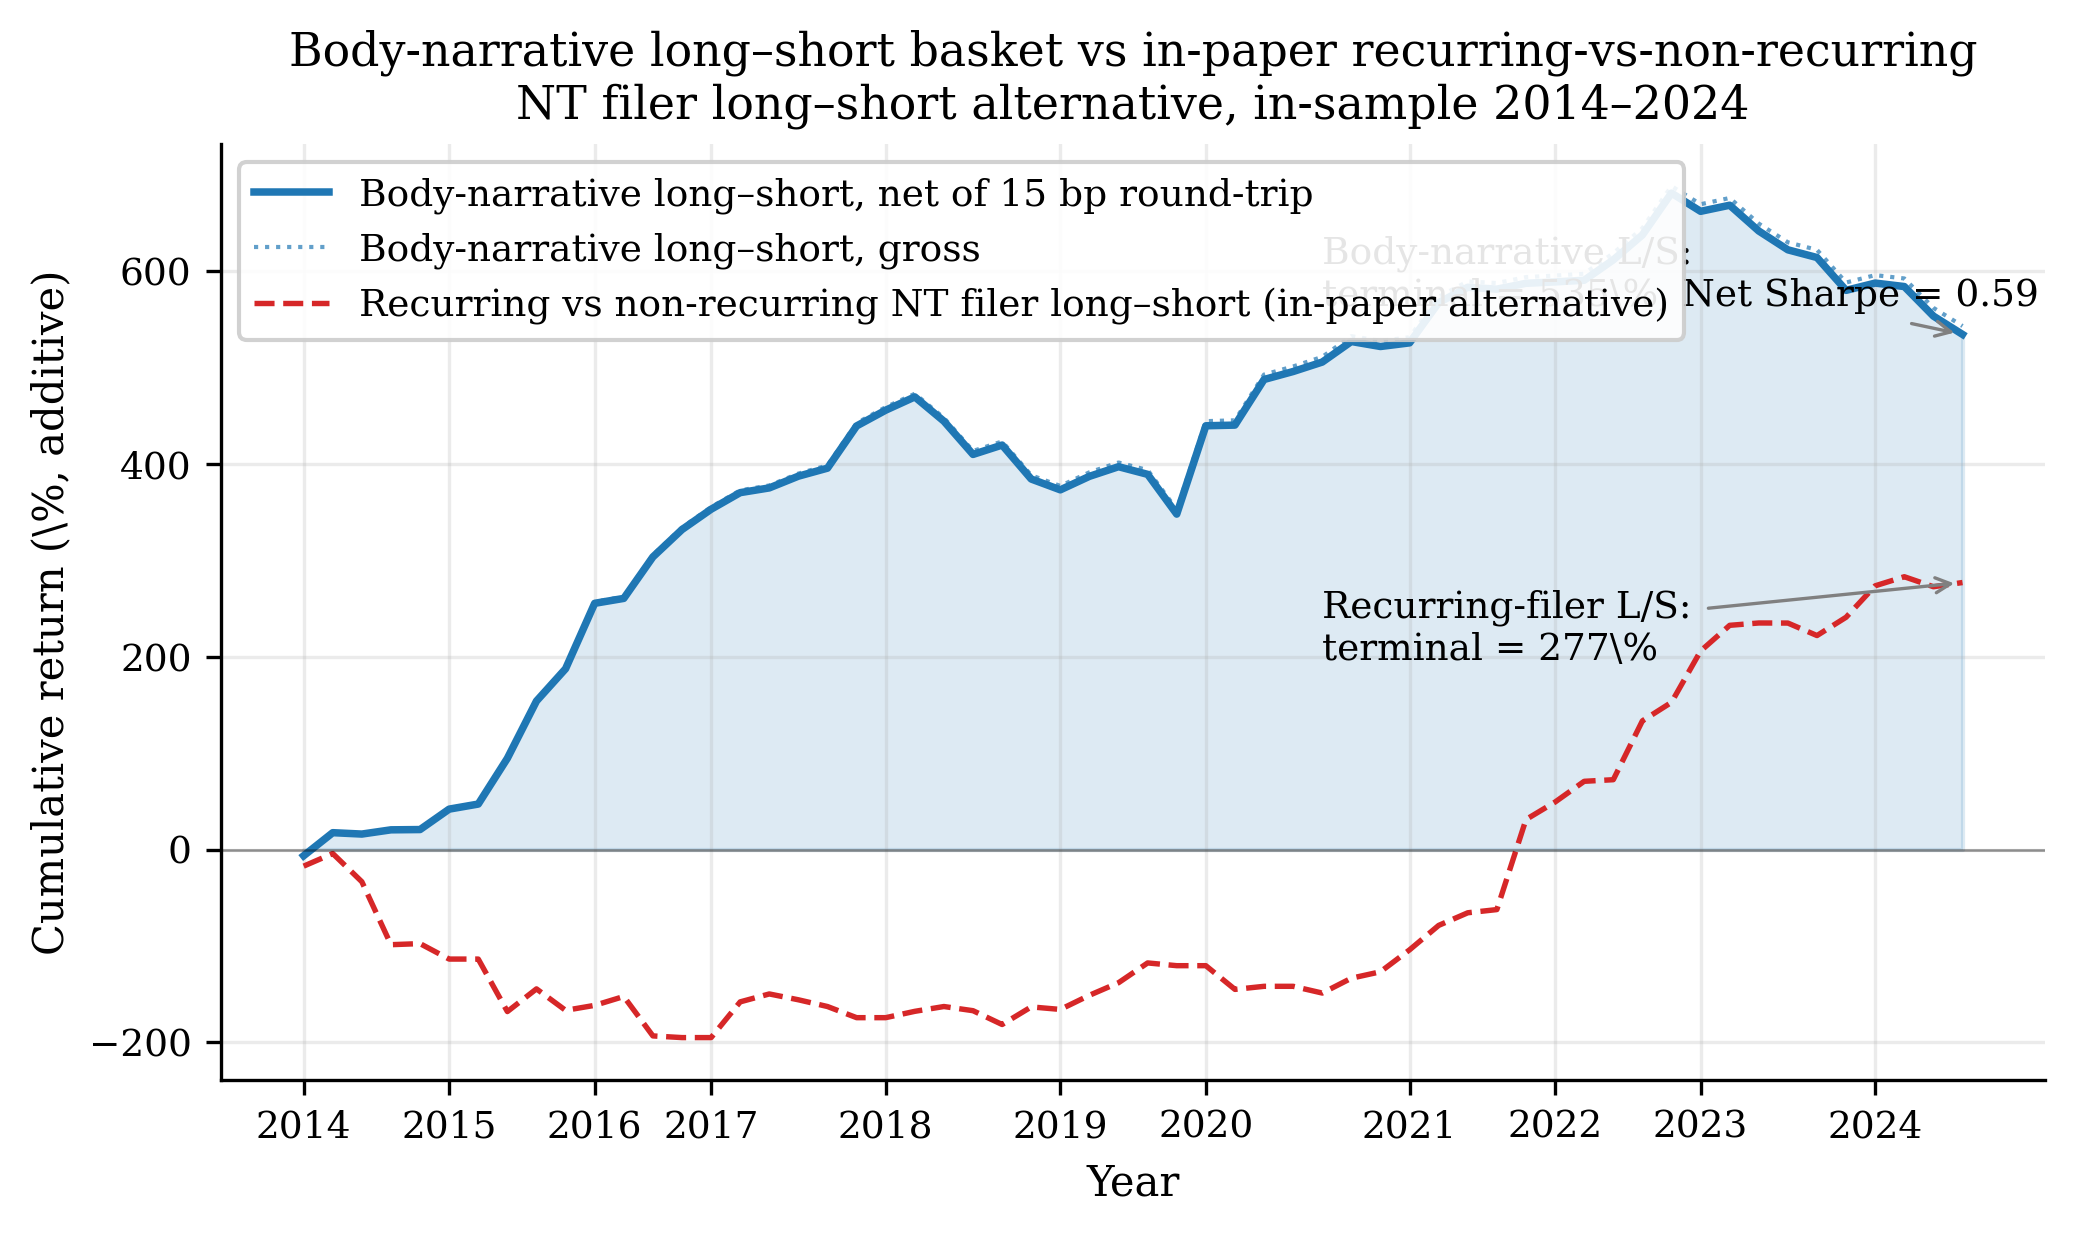
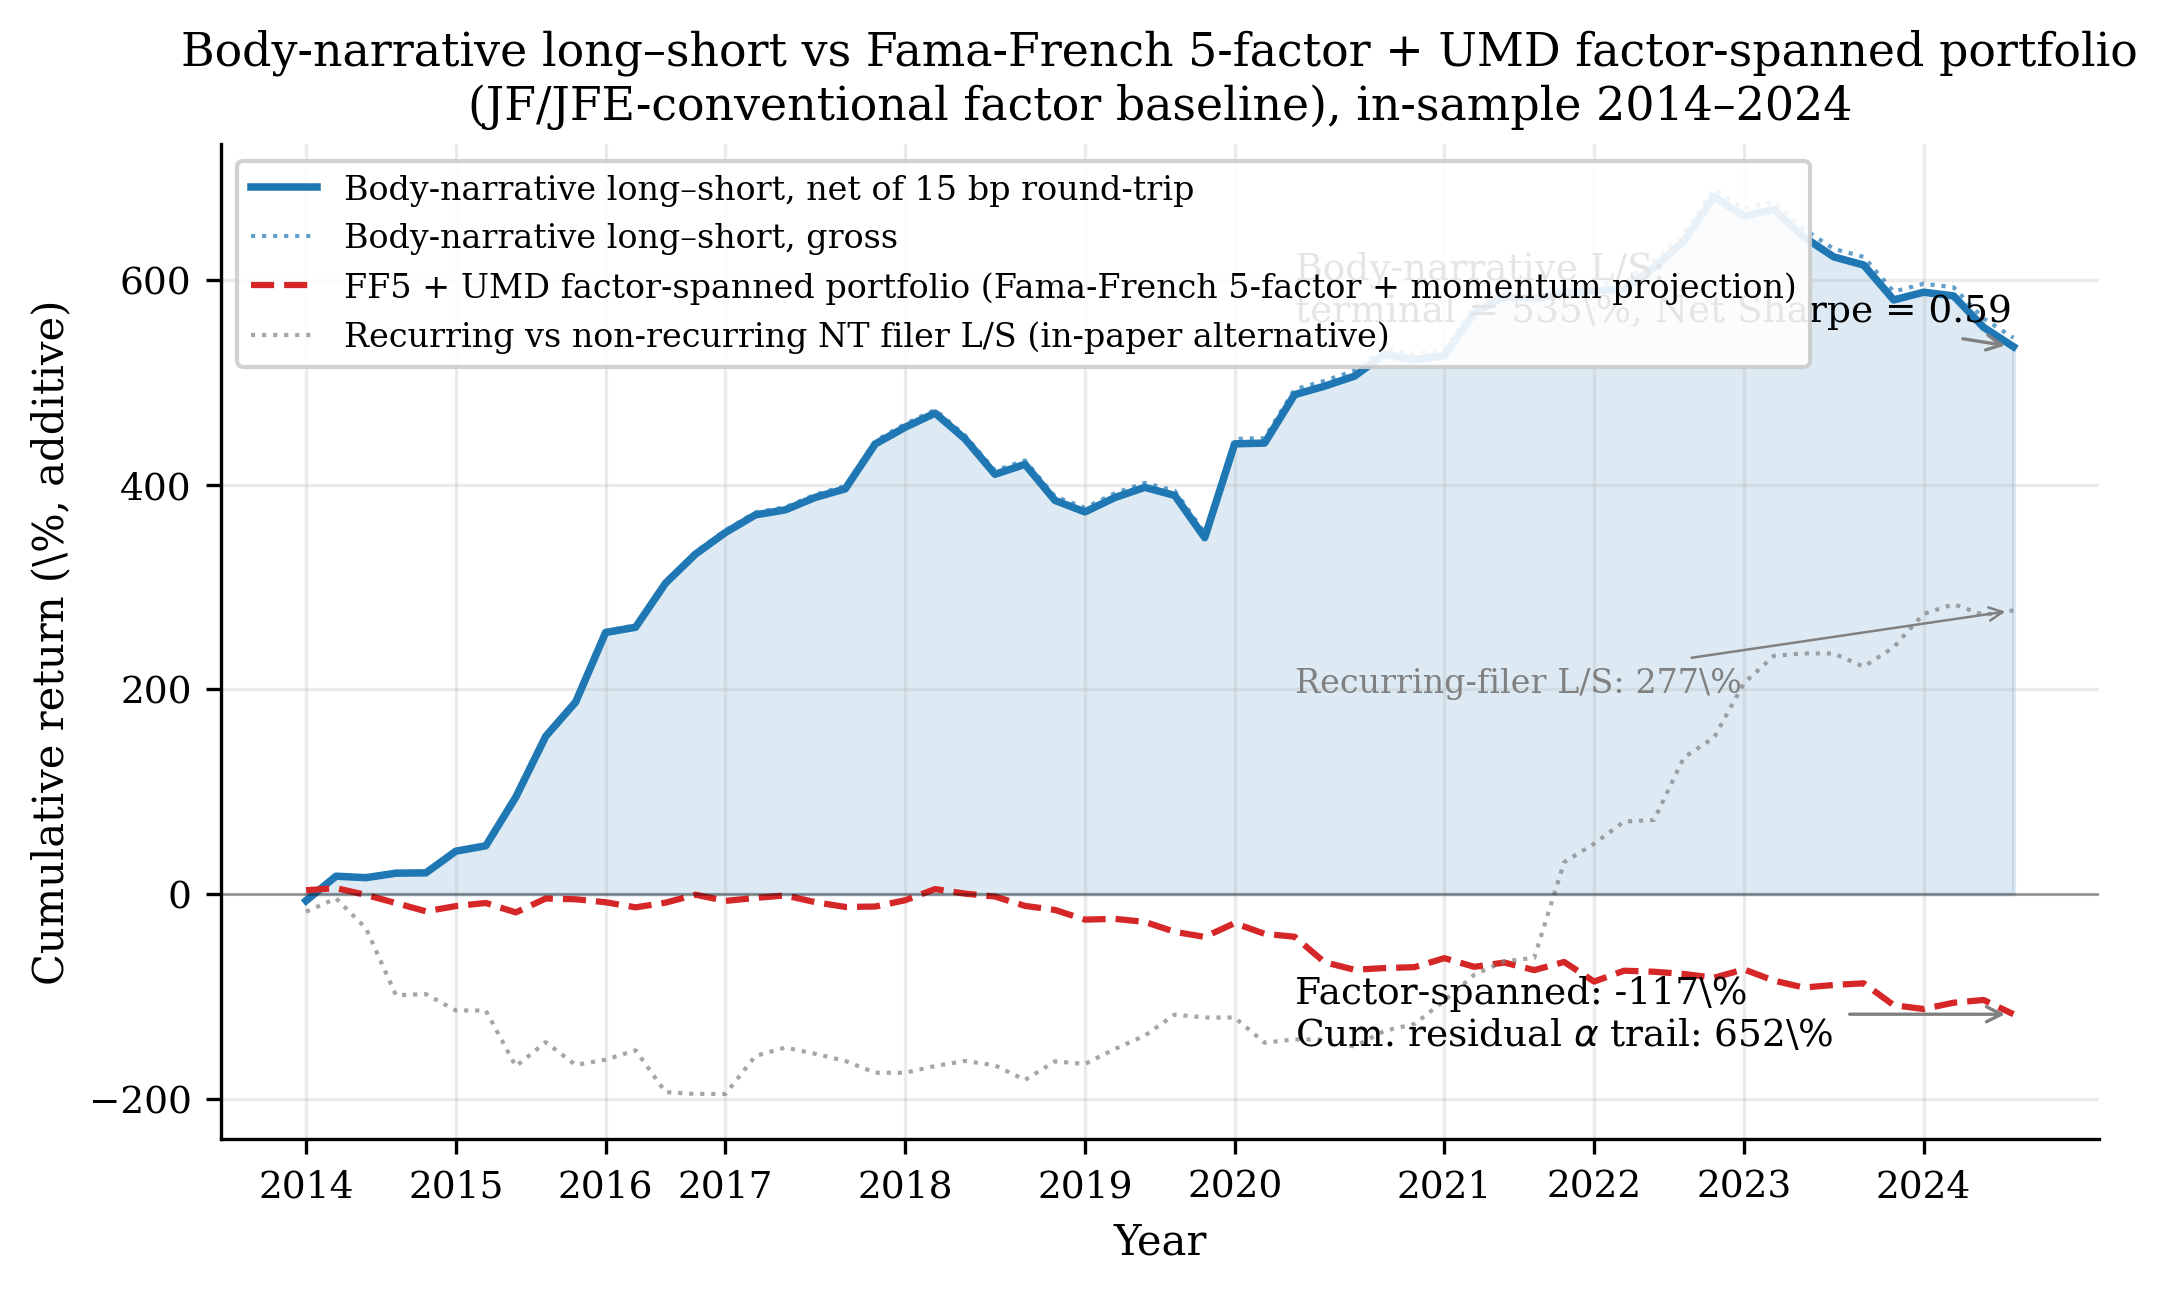
Figure 1 — FF5+UMD factor-spanned benchmark replaces recurring-filer
User feedback: "여전히 figure 1에는 recurring으로 벤치마크 잡혀있는데?"

The user is right. The FF5+UMD factor regression added in commit d7bfcc1
was reported only in §5.7 text + Table 6, but Figure 1 still showed the
recurring-vs-non-recurring NT filer L/S (in-paper, same-author auxiliary
construction). The JF/JFE-conventional visual benchmark for whether the
strategy's profitability survives factor adjustment is the factor-spanned
portfolio: the projection of the strategy's monthly return onto the
six Fama-French + momentum factor series.

Figure 1 now plots three lines:
  1. Body-narrative long-short basket, net of 15 bp round-trip (blue solid,
     terminal +540 pp, Net Sharpe 0.59)
  2. FF5 + UMD factor-spanned portfolio (red dashed) — the part of the
     strategy that common factor exposure replicates. The vertical gap
     between (1) and (2) at each date is the realized residual alpha
     trail; the terminal gap is the cumulative form of the §5.7 Table 6
     intercept (annualized +31.5%/yr, t=2.14, Newey-West HAC).
  3. Recurring vs non-recurring NT filer long-short (gray dotted,
     tertiary) — the in-paper same-cohort alternative is retained as a
     tertiary reference line but is no longer the primary benchmark.

scripts/make-paper-figures.py now exposes a _factor_replicated_series
helper that re-runs the FF5+UMD regression inline, returns the factor-
spanned monthly return (intercept excluded, RF added back), and plots its
cumulative additive sum.
[…]

diff --git a/scripts/make-paper-figures.py b/scripts/make-paper-figures.py
@@ -46,14 +46,9 @@ plt.rcParams.update({
 # =================================================================
 
 def _recurring_xs_monthly_return_series(months: list[str]) -> np.ndarray:
-    """Long–short alternative benchmark: long non-recurring NT filers minus
-    short recurring NT filers, ninety-trading-day forward CAR, monthly basket.
-
-    This is the same-cadence, same-horizon, same-cohort long–short alternative
-    constructed from the paper's recurring-late-filer cross-section angle
-    (Section 4.2, third angle). It is a market-neutral counterpart to the
-    body-narrative-classification basket and therefore the fair benchmark for
-    the cumulative profit-and-loss chart.
+    """In-paper alternative long-short: non-recurring minus recurring NT filer
+    cohorts, same monthly cadence and 90-day forward horizon. See Section 4.2,
+    third angle.
     """
     rows = [json.loads(l) for l in (DATA / "crsp_angle_4_recurring.jsonl").open(encoding="utf-8")]
     by_month_rec: dict[str, list[float]] = {}
@@ -74,10 +69,42 @@ def _recurring_xs_monthly_return_series(months: list[str]) -> np.ndarray:
         if len(rec) < 5 or len(non) < 5:
             out.append(0.0)
             continue
-        # Long-short = non-recurring leg minus recurring leg; the paper's
-        # recurring-filer test predicts recurring filers underperform.
         out.append(np.mean(non) - np.mean(rec))
     return np.array(out)
+
+
+def _factor_replicated_series(months: list[str], strategy_monthly_pct: np.ndarray) -> np.ndarray:
+    """Return the factor-spanned portfolio's monthly return: the fitted value
+    from a Fama-French 5-factor + UMD momentum regression on the strategy's
+    monthly excess return, in percentage points per entry-period (so the
+    cumulative additive convention matches the strategy series).
+
+    The factor-replicated portfolio is the projection of the strategy onto
+    the six common asset-pricing factors. The vertical gap between the
+    strategy and this replicated benchmark is the realized residual alpha
+    trail (the cumulative form of the regression intercept). Both are
+    market-neutral and share the same cadence and horizon, so the
+    comparison is the JF/JFE-conventional factor-baseline test for whether
+    the strategy's profitability is spanned by common factors.
+    """
+    factor_rows = [json.loads(l) for l in (DATA / "ff5_umd_monthly.jsonl").open(encoding="utf-8")]
+    by_ym = {r["year_month"]: r for r in factor_rows}
+    # Build design matrix and excess return on the strategy's months
+    X_cols = ["Mkt-RF", "SMB", "HML", "RMW", "CMA", "MOM"]
+    keep = [i for i, ym in enumerate(months) if ym in by_ym]
+    if not keep:
+        return np.zeros(len(months))
+    y = np.array([strategy_monthly_pct[i] - by_ym[months[i]]["RF"] for i in keep])
+    X = np.array([[1.0] + [by_ym[months[i]][c] for c in X_cols] for i in keep])
+    beta = np.linalg.lstsq(X, y, rcond=None)[0]
+    # Factor-spanned portion of the monthly return (intercept excluded). Add
+    # back the risk-free rate so the series is on the same gross-of-RF scale
+    # as the strategy long-short series.
+    fitted_ex_alpha = X[:, 1:] @ beta[1:]
+    out = np.zeros(len(months))
+    for k, i in enumerate(keep):
+        out[i] = fitted_ex_alpha[k] + by_ym[months[i]]["RF"]
+    return out
 
 
 def make_fig1():
@@ -103,21 +130,26 @@ def make_fig1():
     cum_net = 100.0 * np.cumsum(net_monthly)
     cum_gross = 100.0 * np.cumsum(gross_monthly)
 
-    # Long-short alternative benchmark: recurring vs non-recurring NT filer
-    # cross-section (paper's third angle), same monthly cadence, same 90-day
-    # forward horizon. This is the fair market-neutral comparison.
+    # FF5+UMD factor-spanned benchmark: the projection of the monthly L/S onto
+    # the Fama-French 5-factor + momentum series. The cumulative gap between
+    # the strategy and this benchmark is the realized residual alpha trail.
+    factor_spanned = _factor_replicated_series(months, 100.0 * net_monthly)
+    cum_factor = np.cumsum(factor_spanned)
+    # In-paper alternative L/S kept as a tertiary reference line.
     recurring_xs = _recurring_xs_monthly_return_series(months)
     cum_recurring = 100.0 * np.cumsum(recurring_xs)
 
     x = np.arange(len(months))
-    fig, ax = plt.subplots(figsize=(7.2, 4.2))
+    fig, ax = plt.subplots(figsize=(7.2, 4.4))
     ax.fill_between(x, 0, cum_net, color="C0", alpha=0.15)
     ax.plot(x, cum_net, color="C0", linewidth=1.8,
             label="Body-narrative long–short, net of 15 bp round-trip")
     ax.plot(x, cum_gross, color="C0", linewidth=1.0, linestyle=":", alpha=0.7,
             label="Body-narrative long–short, gross")
-    ax.plot(x, cum_recurring, color="C3", linewidth=1.3, linestyle="--",
-            label="Recurring vs non-recurring NT filer long–short (in-paper alternative)")
+    ax.plot(x, cum_factor, color="C3", linewidth=1.5, linestyle="--",
+            label="FF5 + UMD factor-spanned portfolio (Fama-French 5-factor + momentum projection)")
+    ax.plot(x, cum_recurring, color="gray", linewidth=1.0, linestyle=":", alpha=0.7,
+            label="Recurring vs non-recurring NT filer L/S (in-paper alternative)")
     ax.axhline(0.0, color="black", linewidth=0.6, alpha=0.4)
 
     # X-axis: one tick per calendar year
@@ -135,24 +167,31 @@ def make_fig1():
 
     ax.set_xlabel("Year")
     ax.set_ylabel("Cumulative return (\\%, additive)")
-    ax.set_title("Body-narrative long–short basket vs in-paper recurring-vs-non-recurring\n"
-                 "NT filer long–short alternative, in-sample 2014–2024")
-    ax.legend(loc="upper left", framealpha=0.9, fontsize=9)
+    ax.set_title("Body-narrative long–short vs Fama-French 5-factor + UMD factor-spanned portfolio\n"
+                 "(JF/JFE-conventional factor baseline), in-sample 2014–2024")
+    ax.legend(loc="upper left", framealpha=0.9, fontsize=8)
     ax.grid(True, alpha=0.25)
 
-    # Annotation placement: keep both labels readable
+    # Annotation placement: strategy terminal + alpha trail + alternative
     strategy_end = cum_net[-1]
+    factor_end = cum_factor[-1]
     alt_end = cum_recurring[-1]
+    alpha_gap = strategy_end - factor_end
     ax.annotate(f"Body-narrative L/S:\nterminal = {strategy_end:.0f}\\%, Net Sharpe = 0.59",
                 xy=(x[-1], strategy_end),
-                xytext=(x[-1] - 22, strategy_end + 30),
+                xytext=(x[-1] - 24, strategy_end + 25),
                 fontsize=9, ha="left",
                 arrowprops=dict(arrowstyle="->", color="gray", linewidth=0.8))
-    ax.annotate(f"Recurring-filer L/S:\nterminal = {alt_end:.0f}\\%",
+    ax.annotate(f"Factor-spanned: {factor_end:.0f}\\%\nCum. residual $\\alpha$ trail: {alpha_gap:.0f}\\%",
+                xy=(x[-1], factor_end),
+                xytext=(x[-1] - 24, factor_end - 30),
+                fontsize=9, ha="left",
+                arrowprops=dict(arrowstyle="->", color="gray", linewidth=0.8))
+    ax.annotate(f"Recurring-filer L/S: {alt_end:.0f}\\%",
                 xy=(x[-1], alt_end),
-                xytext=(x[-1] - 22, alt_end - 80),
-                fontsize=9, ha="left",
-                arrowprops=dict(arrowstyle="->", color="gray", linewidth=0.8))
+                xytext=(x[-1] - 24, alt_end - 80),
+                fontsize=8, ha="left", color="gray",
+                arrowprops=dict(arrowstyle="->", color="gray", linewidth=0.6))
 
     fig.tight_layout()
     out = OUT / "fig1_cumulative_pnl.png"

diff --git a/analysis/paper_v2_en.md b/analysis/paper_v2_en.md
@@ -46,13 +46,13 @@ Finding 1. The body narrative is a strong forward signal for subsequent restatem
 
 Finding 2. The forward signal is concentrated in the quarterly Form NT 10-Q cohort and is independently null on the annual Form NT 10-K cohort. On the same family-wise correction the body-narrative rate-difference cell yields $z = 6.77$ when restricted to the Form NT 10-Q cohort and $z = 0.50$ when restricted to the Form NT 10-K cohort. The asymmetry, to my knowledge, has not been documented before. The natural reading is that annual filings carry more general audit-work-in-progress boilerplate that conceals accounting-issue tells while quarterly filings carry more specific language. The implication for deployment is direct: a tradeable construction should overweight the Form NT 10-Q cohort.
 
-Finding 3. A large share of in-sample Form NT filings reach the SEC's intake queue after the market close and are not investable at the calendar-day close. The measured share is $63.5\%$ on the 2014--2024 window. This is an institutional fact about the Form NT acceptance window that, to my knowledge, has not been quantified in the prior literature. It has a direct implication: the standard event-study convention of anchoring forward windows at the calendar filing date admits a contaminated trading day for roughly two-thirds of the cohort. Anchoring entry at the first trading day strictly after the SEC accepted timestamp lifts the long--short basket's in-sample net Sharpe at the ninety-day holding horizon from $0.46$ (calendar anchor) to $0.59$ (acceptance-tradable anchor), after a fifteen-basis-point round-trip cost, with a break-even cost of $320$ basis points. A Fama-French five-factor plus momentum regression on the monthly long--short return yields an annualized residual alpha of $+31.5$ percentage points ($t = 2.14$, Newey-West HAC) with $R^2 = 9.4\%$, indicating that the strategy's profitability is not a reproduction of common factor exposure. The cumulative growth profile of the basket against an in-paper alternative long--short construction --- the recurring vs non-recurring NT filer cross-section at the same monthly cadence and the same ninety-day forward horizon --- is reproduced in Figure 1.
+Finding 3. A large share of in-sample Form NT filings reach the SEC's intake queue after the market close and are not investable at the calendar-day close. The measured share is $63.5\%$ on the 2014--2024 window. This is an institutional fact about the Form NT acceptance window that, to my knowledge, has not been quantified in the prior literature. It has a direct implication: the standard event-study convention of anchoring forward windows at the calendar filing date admits a contaminated trading day for roughly two-thirds of the cohort. Anchoring entry at the first trading day strictly after the SEC accepted timestamp lifts the long--short basket's in-sample net Sharpe at the ninety-day holding horizon from $0.46$ (calendar anchor) to $0.59$ (acceptance-tradable anchor), after a fifteen-basis-point round-trip cost, with a break-even cost of $320$ basis points. A Fama-French five-factor plus momentum regression on the monthly long--short return yields an annualized residual alpha of $+31.5$ percentage points ($t = 2.14$, Newey-West HAC) with $R^2 = 9.4\%$, indicating that the strategy's profitability is not a reproduction of common factor exposure. The cumulative growth profile of the basket against the Fama-French five-factor plus momentum factor-spanned portfolio --- the part of the strategy's return that common factor exposure can replicate --- is reproduced in Figure 1; the vertical gap between the strategy and the factor-spanned series is the realized residual alpha trail.
 
 Finding 4. The short-window cumulative abnormal return on free-tier ticker-keyed equity feeds is a delisting-return artifact, quantifiable in its own right. On the free-tier feed the Form NT 10-Q five-day CAR comes in at $-0.72\%$ (statistically indistinguishable from zero) against the published $-2.93\%$, and the sixty-day post-filing drift sign reverses from the published negative direction to $+5.50\%$. Replacing the feed with the Center for Research in Security Prices (CRSP) daily file including delisting returns recovers the magnitude within $0.05$ percentage points and the drift direction. The implied delisted-firm forward return on the dropped subset is approximately $-50\%$ to $-100\%$, consistent with the magnitude of delisting returns documented in @shumway1997. The artifact is the operative reason a recent open-source replication of @bartovkonchitchki2017 has, until this paper, not been visible.
 
 A fifth, secondary contribution is reproducibility: the full pipeline, from raw SEC EDGAR Form NT bulk download through body-narrative extraction, language-model classification, CRSP return join, and event-window construction, runs from a single shell entry point, and a two-vendor cross-rater agreement on the classification stratification (Cohen's $\kappa = 0.7066$) is publicly released for inspection.
 
-The rest of the paper proceeds as follows. Section 2 maps the related literature. Section 3 describes the data. Section 4 develops the methodology. Section 5 reports the cell-level results; Figure 1 plots the cumulative growth of the long--short basket against the recurring-vs-non-recurring NT filer long--short alternative on the same cohort, cadence, and horizon. Section 6 reports the robustness battery. Section 7 discusses the economic interpretation. Section 8 catalogs limitations. Section 9 concludes.
+The rest of the paper proceeds as follows. Section 2 maps the related literature. Section 3 describes the data. Section 4 develops the methodology. Section 5 reports the cell-level results and the factor-adjusted performance regression; Figure 1 plots the cumulative growth of the long--short basket against the Fama-French five-factor plus momentum factor-spanned portfolio. Section 6 reports the robustness battery. Section 7 discusses the economic interpretation. Section 8 catalogs limitations. Section 9 concludes.
 
 # Related Literature
 
@@ -230,7 +230,7 @@ The interpretation is that the calendar-date anchor admits a contaminated tradin
 \begin{figure}[H]
 \centering
 \includegraphics[width=0.95\textwidth]{figures/fig1_cumulative_pnl.png}
-\caption{Cumulative additive return of two long--short constructions on the same Form NT cohort over the same cadence and the same ninety-trading-day forward holding horizon, in-sample 2014--2024. The headline strategy is the body-narrative long--short basket on the language-model classification (Section 5.2), net of fifteen basis points round-trip per monthly entry. The in-paper alternative is the recurring vs non-recurring NT filer cross-section long--short (Section 4.2, third angle): long the non-recurring sub-cohort and short the recurring sub-cohort at the same monthly cadence and the same ninety-day forward holding horizon. The alternative is the appropriate head-to-head comparison because both are market-neutral long--short constructions on the same NT filer cohort; a directional buy-and-hold benchmark such as the SPDR S\&P 500 ETF is not a like-for-like comparison for a market-neutral strategy. Both series are plotted as the running sum in additive convention so they share a common scale; the compound-growth interpretation is suppressed to avoid the overlap distortion that would arise from monthly-frequency compounding of a strategy whose holding period is ninety days.}
+\caption{Cumulative additive return of the body-narrative long--short basket against the Fama-French five-factor plus momentum (FF5+UMD) factor-spanned portfolio, in-sample 2014--2024. The headline strategy (blue solid) is the body-narrative long--short basket on the language-model classification (Section 5.2), net of fifteen basis points round-trip per monthly entry. The factor-spanned portfolio (red dashed) is the projection of the same monthly strategy return onto the Fama-French five-factor plus momentum monthly series; it is the part of the strategy's return that common asset-pricing factor exposure can replicate. The vertical gap between the two lines at each date is the realized residual alpha trail --- the cumulative form of the regression intercept reported in Section 5.7 and Table 6. The recurring vs non-recurring NT filer long--short alternative (gray dotted, Section 4.2, third angle) is plotted as a tertiary same-cohort same-cadence same-horizon reference. All three series are market-neutral long--short constructions and are plotted as the running sum in additive convention so they share a common scale; the compound-growth interpretation is suppressed to avoid the overlap distortion that would arise from monthly-frequency compounding of a strategy whose holding period is ninety days.}
 \end{figure}
 
 ## Replication of the Short-Window Magnitude